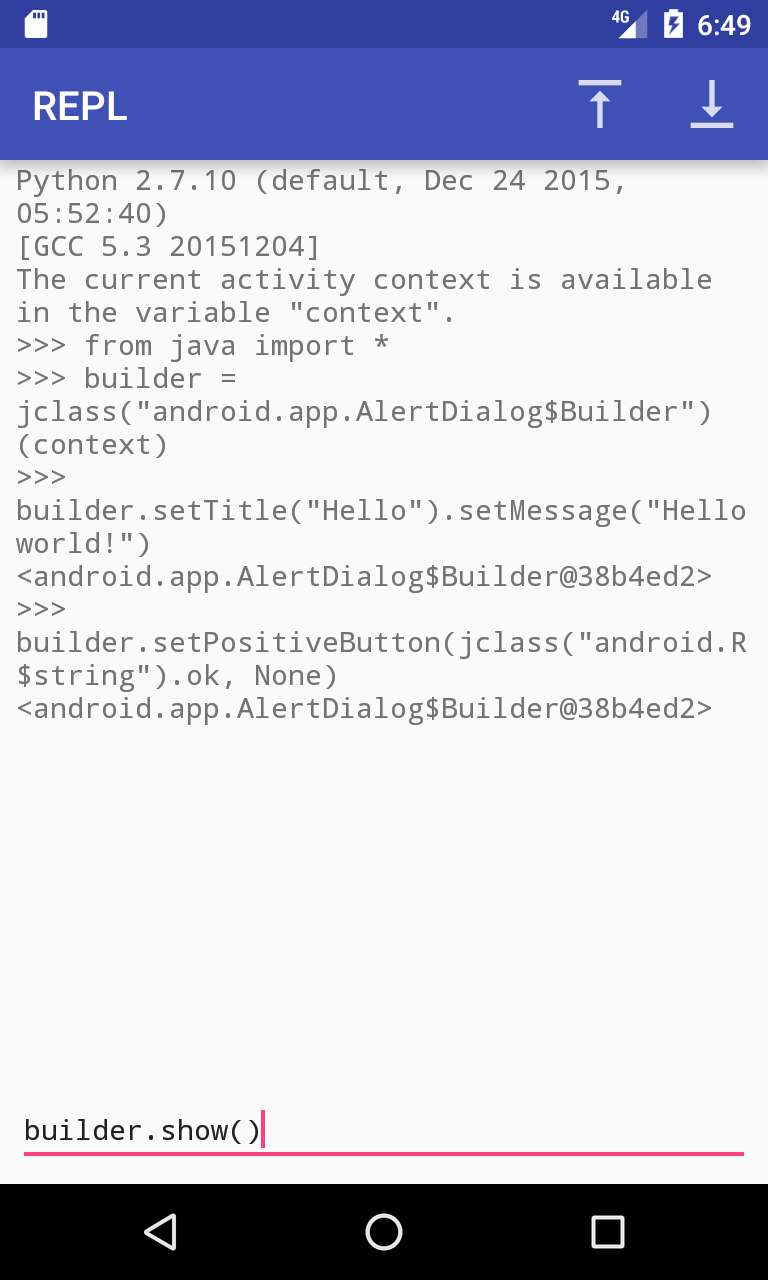
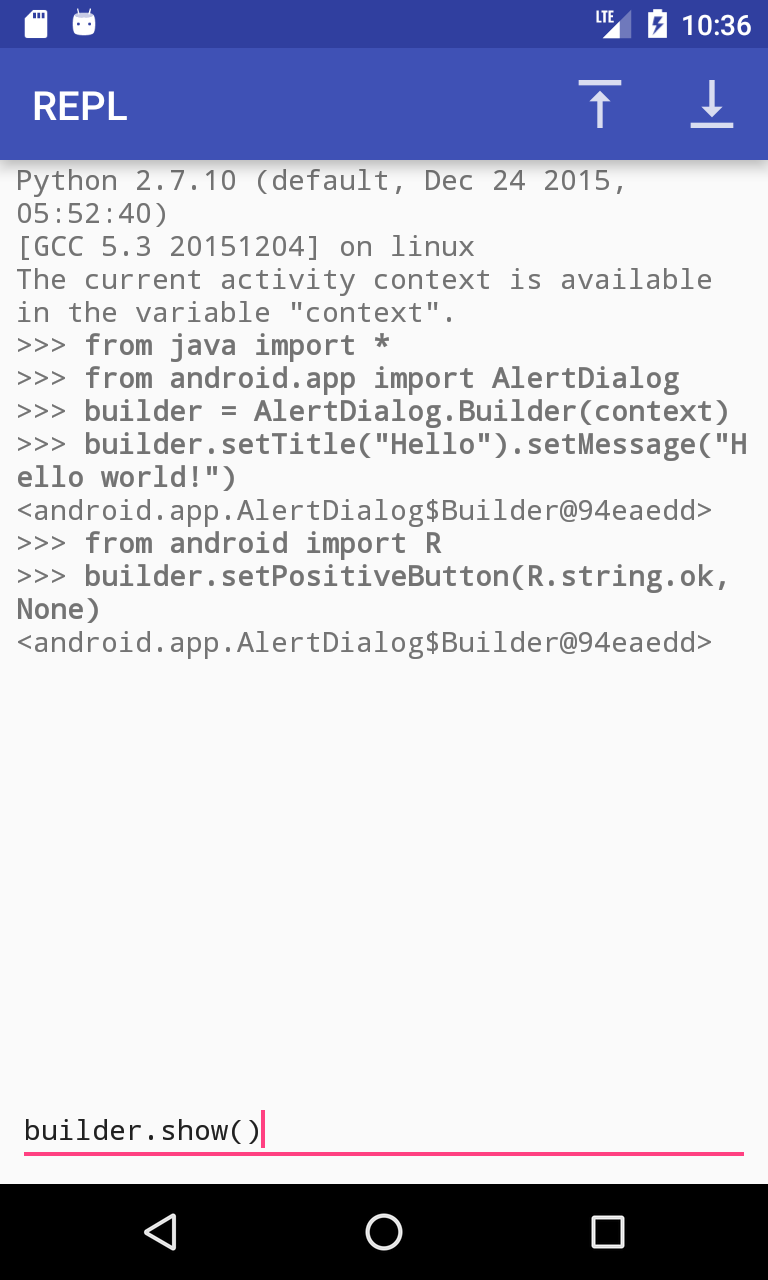
Fix line wrapping (closes #5234)

diff --git a/demo/app/src/main/java/com/chaquo/python/demo/ConsoleActivity.java b/demo/app/src/main/java/com/chaquo/python/demo/ConsoleActivity.java
@@ -2,6 +2,7 @@ package com.chaquo.python.demo;
 
 import android.os.*;
 import android.support.v7.app.*;
+import android.text.*;
 import android.view.*;
 import android.widget.*;
 import com.chaquo.python.*;
@@ -24,6 +25,9 @@ public class ConsoleActivity extends AppCompatActivity {
         super.onCreate(savedInstanceState);
         svBuffer = (ScrollView) findViewById(R.id.svBuffer);
         tvBuffer = (TextView) findViewById(R.id.tvBuffer);
+        if (Build.VERSION.SDK_INT >= 23) {
+            tvBuffer.setBreakStrategy(Layout.BREAK_STRATEGY_SIMPLE);
+        }
 
         PyObject console_activity = py.getModule("console_activity");
         PyObject stream = console_activity.callAttr("ForwardingOutputStream", this, "append");

diff --git a/README.md b/README.md
@@ -18,8 +18,9 @@ Copy updates in demo to public/demo.
 
 Copy updates in runtime/src/test to public/demo/app/src/main.
 
-Update version number in public/demo/build.gradle, and build release APK in Android Studio.
-Test on emulator and phone.
+Update version number in public/demo/build.gradle, adjusting SDK version number if necessary.
+
+Build release APK in Android Studio, and test on emulator and phone.
 
 Upload APK to Google Play and to Maven repository.
 
@@ -30,7 +31,8 @@ Update runtime/docs/sphinx/changelog.rst for product changes, and add date.
 
 Update public/demo/CHANGELOG.md for demo app changes, and add date.
 
-Build sphinx and javadoc. Upload to server, updating "current" symlink and adding link to documentation page.
+If sphinx or javadoc have changed, upload to server. If major.minor version number has changed,
+update "current" symlink and add link on WordPress documentation page.
 
 Post blog entry on website.
 
